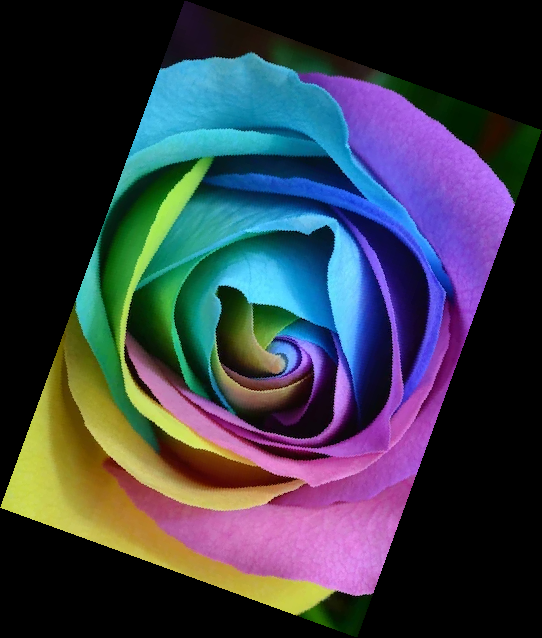
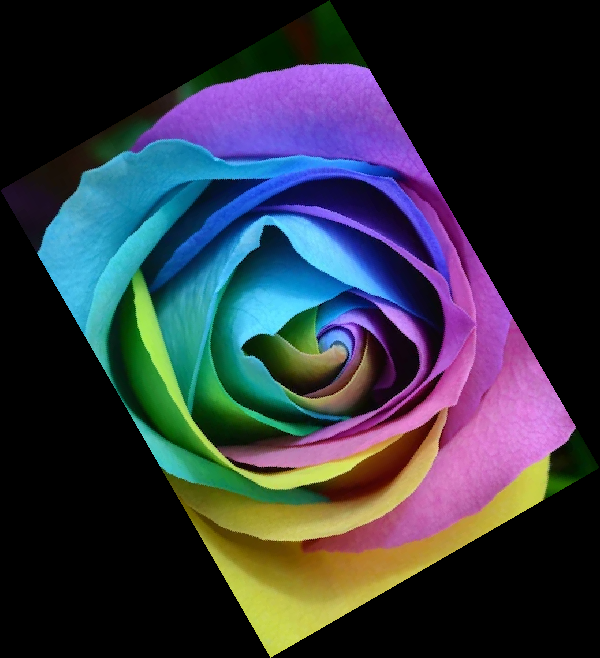
Merge pull request #37 from Touche-Moi-l-image/dev
Dev -> Prod

Pull request: Dev -> Prod
Updated starting script to fit sonar Qube recommandation

diff --git a/serveur/routes/blur_image.py b/serveur/routes/blur_image.py
@@ -1,0 +1,28 @@
+from flask import Blueprint, request, jsonify
+from routes.utils import process_image
+from PIL import Image, ImageFilter
+
+blur_image = Blueprint('blur_image', __name__)
+
+
+@blur_image.route('/api/blur-image', methods=['POST'])
+def blur_image_route():
+    image_source = request.form.get('image_source')
+    percent_raw = request.form.get('percent')
+
+    if not image_source:
+        return jsonify({"error": "No image source provided"}), 400
+
+    try:
+        percent = float(percent_raw) if percent_raw is not None else 50.0
+    except Exception:
+        return jsonify({"error": "Invalid percent value"}), 400
+
+    if percent < 0 or percent > 100:
+        return jsonify({"error": "Percent must be between 0 and 100"}), 400
+
+    def do_blur(image: Image.Image):
+        radius = percent * 0.2
+        return image.filter(ImageFilter.GaussianBlur(radius))
+
+    return process_image(image_source, do_blur)

diff --git a/serveur/server.py b/serveur/server.py
@@ -2,12 +2,14 @@ from flask import Flask
 from routes.convert_to_bw import convert_to_bw
 from routes.rotate_image import rotate_image
 from routes.flip_image import flip_image
+from routes.blur_image import blur_image
 
 app = Flask(__name__)
 
 app.register_blueprint(convert_to_bw)
 app.register_blueprint(rotate_image)
 app.register_blueprint(flip_image)
+app.register_blueprint(blur_image)
 
 if __name__ == '__main__':
     app.run(host='127.0.0.1', port=5000, debug=True)

diff --git a/readme.md b/readme.md
@@ -72,3 +72,18 @@ curl -X POST -F "image_source=C:/path/to/local/image.jpg" http://127.0.0.1:5000/
 ![Image avec effet miroir](src/img/flipped_image.png)
 
 ---
+
+### 4. Floutage d'une image
+**Route :** `/api/blur-image`
+
+- **Méthode :** POST
+- **Description :** Applique un flou gaussien à une image selon un pourcentage donné.
+- **Paramètres :**
+  - `image_source` : URL ou chemin local de l'image à transformer.
+  - `percent` : Pourcentage de floutage (0-100). Valeur par défaut : 50.
+
+**Exemple d'image avant et après transformation :**
+
+![Image floutée](src/img/blured_image.png)
+
+---